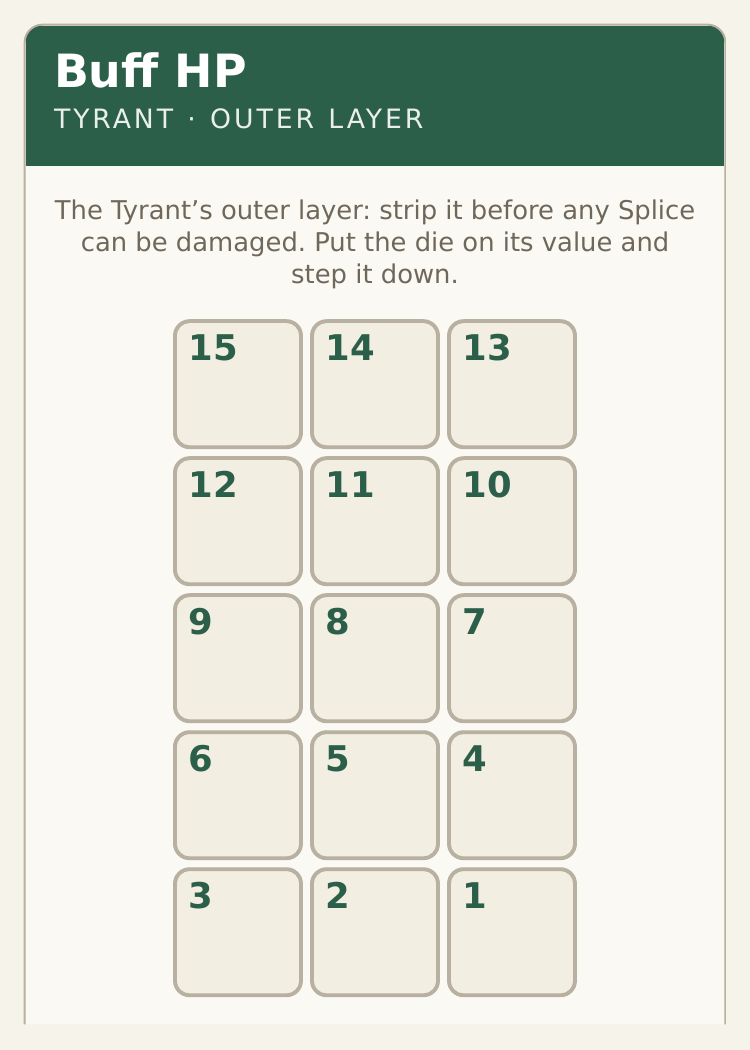
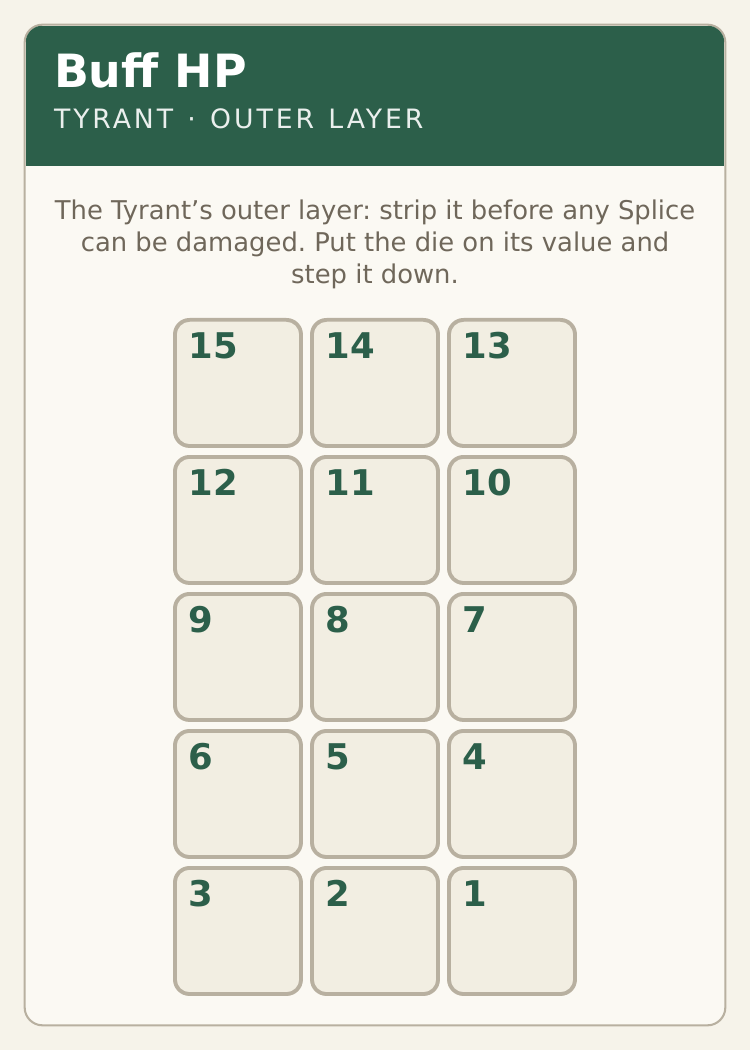
Stop the Buff HP card asking for a line it cannot print
Its footer, "Damage reaches no Splice until this layer is gone.", had
never appeared on the card. check_cards.py's new ink pass found it the
day it was written: the content ran 5.2mm past the bottom of its own
text area, and WeasyPrint squashes an overflowing flex item instead of
spilling it, so the line and its rule were rendered to nothing rather
than clipped.

The grid could not make room. The fifteenth space ends 84.24mm down an
88.9mm card - the bottom of the body's padding box - and a one-line
.ftr wants 5.67mm. Shrinking the spaces is an art change with a rule
attached, because tts/lua.lua pins BUFF_GRID_DZ = -BUFF_PITCH and the
squares are where the die snaps: honouring that, 10mm squares free
3.07mm and only 9mm squares fit a footer, under a die that already
overhangs an 11mm one. So the footer goes, and the comment that
replaces it says why, with the numbers.

No rule is lost. The tip above the grid says it in other words and
rules/bat.html says it under The Tyrant track.

The art moves by one pixel of rounding - and that was enough to show
that check_app_sync was measuring the card's frame, not its grid. It
boxes every pixel the colour of a space's border, the frame is that
same colour at gen.py's inset, and the window stopped 12px short of
the image rather than inside the frame. The rebuilt sheet's bottom
hairline antialiased one shade darker, joined the box, and the check
announced a 1.6mm pitch on a card that prints 11.6mm with its grid
[…]

diff --git a/generator/check_app_sync.py b/generator/check_app_sync.py
@@ -3241,6 +3241,17 @@ check("every deck that waits in a box is dealt by a finale",
 # tall, so its height less its width is exactly two pitches.
 
 
+# gen.py owns the card's geometry and this needs two of its numbers.
+# NOT `_g`, which holds them a thousand lines up: a loop at "for _g in
+# (\"bat\", \"nap\"..." rebinds that name to a string long before this
+# runs, so reaching for it here raises TypeError at import time.
+_cardgeo = {}
+for _line in text("generator/gen.py").splitlines():
+    for _k in ("PORTRAIT", "CARD_INSET_MM"):
+        if _line.startswith(_k + " = "):
+            _cardgeo[_k] = ast.literal_eval(_line.split(" = ", 1)[1].strip())
+
+
 def _buff_grid():
     from PIL import Image
     im = Image.open(os.path.join(ROOT, "images", "BAT_BuffHP_TTS.png"))
@@ -3249,10 +3260,20 @@ def _buff_grid():
     px = im.load()
     x0 = y0 = 10 ** 6
     x1 = y1 = -1
-    # Below the heading and inside the card's own frame, so neither
-    # the title band nor the border joins the measurement.
-    for y in range(int(h * 0.28), h - 12):
-        for x in range(40, w - 40):
+    # Below the heading and INSIDE THE CARD'S OWN FRAME - which the old
+    # window said it was and was not. That frame is .5pt of #b8b0a0 at
+    # gen.py's CARD_INSET_MM, the same colour as a space's border, and
+    # the window stopped 12px short of the image: on 2026-11-14 the
+    # bottom hairline came out one shade darker, joined the box, and the
+    # "pitch" became the card's own height less its width over two -
+    # 1.6mm where the card prints 11.6mm - while the grid had not moved
+    # a pixel (403 x 677 on the sheet before and after). 40px and 12px
+    # were both guesses; the inset is the number that means something.
+    edge = int(round((_cardgeo["CARD_INSET_MM"] + 1.0)
+                     * h / _cardgeo["PORTRAIT"][1]))
+    top = int(h * 0.28)
+    for y in range(top, h - edge):
+        for x in range(edge, w - edge):
             r, g, b = px[x, y]
             if abs(r - 184) < 30 and abs(g - 176) < 30 and abs(b - 160) < 30:
                 x0 = min(x0, x)
@@ -3260,6 +3281,13 @@ def _buff_grid():
                 y0 = min(y0, y)
                 y1 = max(y1, y)
     if x1 < 0:
+        return None
+    # A BOX THAT TOUCHES THE WINDOW IS NOT THE GRID. It is the frame
+    # again, or a grid that has grown or slid into the band the window
+    # excludes. Either way every number below it would be fiction, so
+    # refuse to produce one rather than print a confident 1.6mm.
+    if (x0 <= edge or x1 >= w - edge - 1
+            or y0 <= top or y1 >= h - edge - 1):
         return None
     return w, h, x0, x1, y0, y1
 
@@ -3291,7 +3319,8 @@ if _bg and _buff_said:
           % (_dz_art, _dx_art, _pitch_art))
 else:
     check("the Buff HP track's pitch is the one printed on the card",
-          False, "could not measure the card, or BUFF_PITCH is gone")
+          False, "could not measure the grid clear of the card's own "
+                 "frame, or BUFF_PITCH is gone")
 
 # ONE BUTTON PER GAME THAT HAS A FINALE, and none for the Imposter
 # scenario, which is itself NRJ's finale and has nothing after it.

diff --git a/generator/build_bat.py b/generator/build_bat.py
@@ -241,7 +241,26 @@ buff = [C('Buff HP', 'Tyrant · outer layer',
           'any Splice can be damaged. Put the die on its value and step it '
           'down.</div>'
           + track(),
-          'Damage reaches no Splice until this layer is gone.',
+          # NO FOOTER, AND THERE IS NO ROOM FOR ONE. The fifteenth space ends
+          # 84.24mm down an 88.9mm card, which is the bottom of the body's
+          # padding box to within a tenth of a millimetre, and gen's `.ftr`
+          # wants 5.67mm of it (1.5 margin, a .4pt rule, 1.1 padding, one
+          # 6.8pt line). This card asked for 'Damage reaches no Splice until
+          # this layer is gone.' from the day it was written and NEVER
+          # PRINTED IT: an overflowing flex item is squashed, not spilled, so
+          # the line and its rule simply were not there, and nothing could
+          # say so until check_cards.py grew an ink pass on 2026-11-14.
+          #
+          # The grid cannot hand the room back. tts/lua.lua sets
+          # BUFF_PITCH = CARD_W * (11.6 / 63.5) and BUFF_GRID_DZ = -BUFF_PITCH,
+          # and check_app_sync measures both off this art, so the spaces and
+          # the grid's centre are where the die's snap points are. Honouring
+          # that pin, 10mm spaces free 3.07mm and 10.5mm free 1.32mm - still
+          # short of 5.67mm - and only 9mm spaces fit a footer, under a die
+          # that already overhangs an 11mm one.
+          #
+          # The rule survives: the tip above the grid says it in other words,
+          # and rules/bat.html says it under The Tyrant track.
           acc=BUFF_GREEN)]
 print("Buff HP track", render_deck('BAT_BuffHP', buff, 'BAT', PORTRAIT, TRACK_CSS, back='CardBack_BAT_BuffHP'))
 
